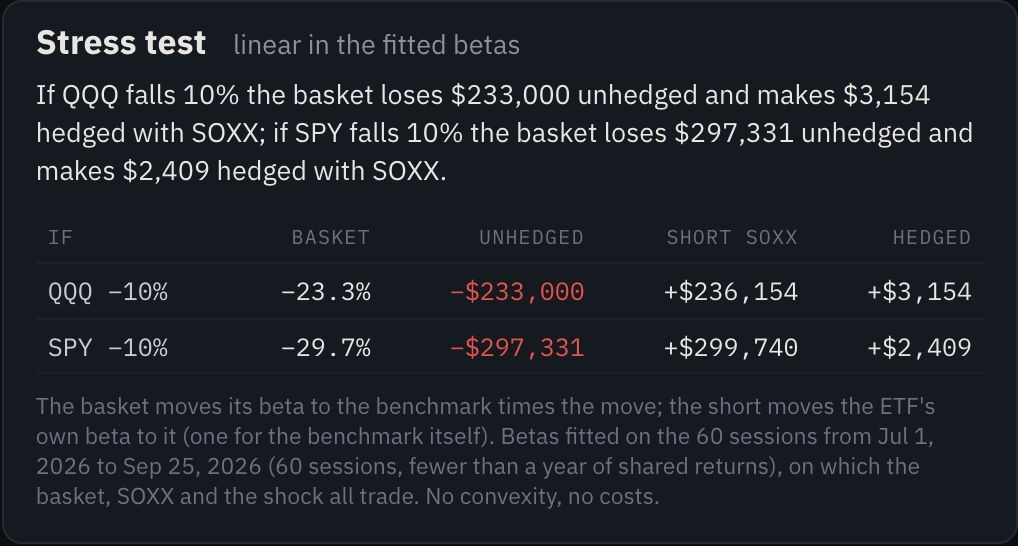
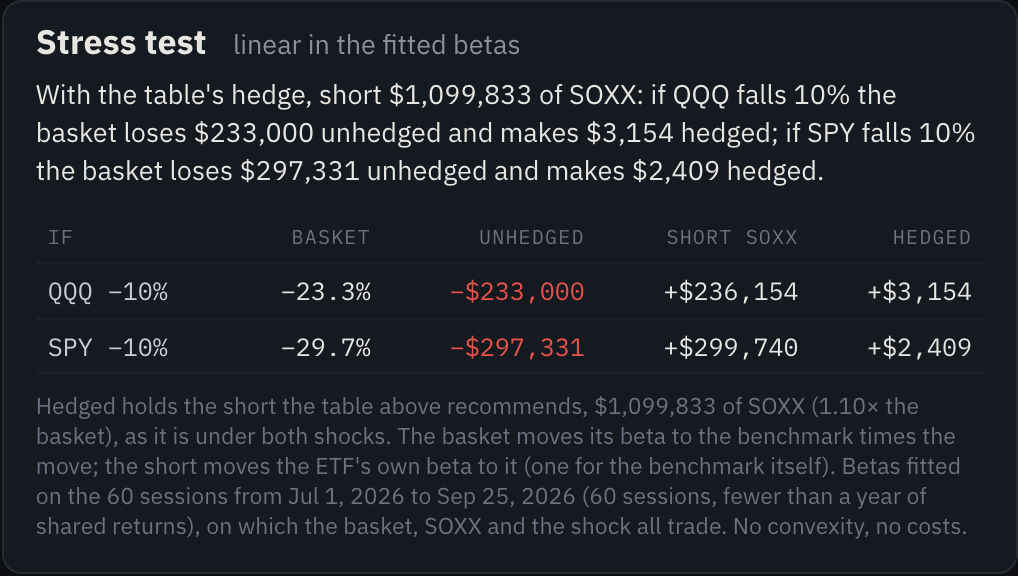
desk/books: the stress holds the short the ETF table recommends (Codex R-15)
The stress test refitted the hedge ratio on each shock's shared window, so
it could hedge with a position the table never recommended: in Codex's
repro (121 XNYS sessions, $1M basket) the table says short $1M of SMH, but
the QQQ row silently held $3M and reported about $0 hedged. `stress` now
takes the table's hedge ratio and holds that short as it is; only the
shock betas are fitted on the shared window ending at the basket's
cutoff (R-01 stands). Each stress row carries `short_usd`, and the card
names the short it holds in its lead and footnote.

Tests from the repro: tests/test_desk_basket.py::test_codex_r15_... (the
engine: −$200,000 hedged, was $0) and tests/test_desk_basket_api.py::
test_codex_r15_... (through hedge_answer); the web tests read the named
short. The fixtures' stress figures are unchanged (every fixture series
is complete, so the two windows agree); they gain `short_usd`. Spec §12.15,
Build Notes, the live stress shots and the compare shot follow.

diff --git a/web/src/screens/desk/basket/trades.test.ts b/web/src/screens/desk/basket/trades.test.ts
@@ -8,7 +8,7 @@ import { describe, expect, it } from "vitest";
 import basketPrice from "../../../fixtures/desk/basket-price.json";
 import basketHedge from "../../../fixtures/desk/basket-hedge.json";
 import type { BasketHedgeResponse, BasketPriceResponse } from "../data/types";
-import { asOfMismatch, stressWindowWords, excludedWords, hedgeLead, pnlWords, stressLead, compareLead, concentrationLead, contributionLead, daysText, indexLead, listWords, liquidityLead, momentumLead, rsLead, startSentence, startWhy, trendPhrase, upDown, usd } from "./trades";
+import { asOfMismatch, stressShortWords, stressWindowWords, excludedWords, hedgeLead, pnlWords, stressLead, compareLead, concentrationLead, contributionLead, daysText, indexLead, listWords, liquidityLead, momentumLead, rsLead, startSentence, startWhy, trendPhrase, upDown, usd } from "./trades";
 
 const ANSWERS = (basketPrice as unknown as { answers: Record<string, BasketPriceResponse> }).answers;
 const SAMPLE = ANSWERS["NVDA:22,AVGO:16,VRT:14,CRWV:12,ANET:12,CEG:12,SMCI:12|hold|1000000"];
@@ -70,13 +70,27 @@ describe("Basket & Hedge's lead sentences", () => {
   it("the hedge's sentences: the top pick with its fit, short and volatility; the stress, unhedged and hedged", () => {
     const h = HEDGES[PRESET];
     expect(hedgeLead(h)).toBe("SMH fits the basket best (R² 0.74 over a year): short $1,233,779 of it against $1,000,000 and the basket's volatility falls from 57% to 29%, 49% less.");
-    expect(stressLead(h)).toBe("If QQQ falls 10% the basket loses $223,092 unhedged and makes $222 hedged with SMH; if SPY falls 10% the basket loses $286,219 unhedged and makes $6,534 hedged with SMH.");
+    expect(stressLead(h)).toBe("With the table's hedge, short $1,233,779 of SMH: if QQQ falls 10% the basket loses $223,092 unhedged and makes $222 hedged; if SPY falls 10% the basket loses $286,219 unhedged and makes $6,534 hedged.");
     expect(pnlWords(-0.4)).toBe("is flat");
     expect(pnlWords(-1234.6)).toBe("loses $1,235");
     // A young basket is ranked on 60 sessions and says so.
     const young = { ...h, etfs: h.etfs!.map((e, i) => (i === 0 ? { ...e, basis: "60d" as const, r2_1y: null } : e)) };
     expect(hedgeLead(young)).toMatch(/^SMH fits the basket best \(R² 0\.77 over 60 sessions\)/);
     expect(hedgeLead({ ...h, top: null })).toBeNull();
+  });
+
+  it("Codex R-15: the stress card says which short it holds, the table's, and holds it as it is", () => {
+    const h = HEDGES[PRESET];
+    // Codex's repro as served: the table recommends $1M of SMH; QQQ's window gives the basket a beta of 3 and SMH 1.
+    const row = { ...h.stress![0], shock: "QQQ" as const, hedge: "SMH", hedge_ratio: 1, short_usd: 1_000_000, basket_beta: 3, basket_move: -0.3, unhedged_usd: -300_000, hedge_beta: 1, hedge_move: -0.1, hedge_usd: 100_000, hedged_usd: -200_000, hedged_move: -0.2 };
+    const r15 = { ...h, stress: [row, { ...row, shock: "SPY" as const }] };
+    expect(stressLead(r15)).toBe("With the table's hedge, short $1,000,000 of SMH: if QQQ falls 10% the basket loses $300,000 unhedged and loses $200,000 hedged; if SPY falls 10% the basket loses $300,000 unhedged and loses $200,000 hedged.");
+    expect(stressShortWords(r15)).toBe("Hedged holds the short the table above recommends, $1,000,000 of SMH (1.00× the basket), as it is under both shocks.");
+    expect(stressShortWords(h)).toBe("Hedged holds the short the table above recommends, $1,233,779 of SMH (1.23× the basket), as it is under both shocks.");
+    // No recommended short: the lead gives the unhedged figures alone and the footnote names no short.
+    const none = { ...h, stress: h.stress!.map((s) => ({ ...s, hedge: null, hedge_ratio: null, short_usd: null, hedge_usd: null, hedged_usd: null, hedged_move: null })) };
+    expect(stressLead(none)).toBe("If QQQ falls 10% the basket loses $223,092 unhedged; if SPY falls 10% the basket loses $286,219 unhedged.");
+    expect(stressShortWords(none)).toBeNull();
   });
 
   it("Codex R-07: closes left out for want of an adjusted close are said, by symbol", () => {

diff --git a/web/src/screens/desk/basket/trades.ts b/web/src/screens/desk/basket/trades.ts
@@ -202,16 +202,32 @@ export function hedgeLead(h: BasketHedgeResponse): string | null {
   return `${top.symbol} fits the basket best (R² ${num(r2, 2)} over ${over}): short ${usd(top.short_usd)} of it against ${usd(h.notional)} and the basket's volatility falls from ${pctPlain(top.basket_vol, 0)} to ${pctPlain(top.residual_vol, 0)}, ${pctPlain(top.vol_reduction, 0)} less.`;
 }
 
-/** The stress card's lead: each shock, unhedged and hedged with the top pick. */
+/** The short the stress holds (Codex R-15): the table's recommended position, the same on every row. */
+export function stressShort(h: BasketHedgeResponse): { symbol: string; short_usd: number; hedge_ratio: number | null } | null {
+  const s = (h.stress ?? []).find((r) => r.hedge && fin(r.short_usd));
+  return s ? { symbol: s.hedge as string, short_usd: s.short_usd as number, hedge_ratio: fin(s.hedge_ratio) ? s.hedge_ratio : null } : null;
+}
+
+/** The stress card's lead: the short it holds, then each shock unhedged and hedged. */
 export function stressLead(h: BasketHedgeResponse): string | null {
   const rows = (h.stress ?? []).filter((s) => fin(s.unhedged_usd) && fin(s.move));
   if (!rows.length) return null;
+  const short = stressShort(h);
+  const hedged = short !== null && rows.some((s) => fin(s.hedged_usd));
   const parts = rows.map((s) => {
     const head = `if ${s.shock} falls ${pctPlain(Math.abs(s.move as number), 0)} the basket ${pnlWords(s.unhedged_usd as number)} unhedged`;
-    return fin(s.hedged_usd) && s.hedge ? `${head} and ${pnlWords(s.hedged_usd)} hedged with ${s.hedge}` : head;
+    return hedged && fin(s.hedged_usd) ? `${head} and ${pnlWords(s.hedged_usd)} hedged` : head;
   });
   const s = parts.join("; ");
-  return `${s.charAt(0).toUpperCase()}${s.slice(1)}.`;
+  return hedged ? `With the table's hedge, short ${usd(short.short_usd)} of ${short.symbol}: ${s}.` : `${s.charAt(0).toUpperCase()}${s.slice(1)}.`;
+}
+
+/** The stress card's first footnote sentence: which short the hedged column holds, and that it is held as it is. */
+export function stressShortWords(h: BasketHedgeResponse): string | null {
+  const short = stressShort(h);
+  if (!short) return null;
+  const ratio = short.hedge_ratio !== null ? ` (${num(short.hedge_ratio, 2)}× the basket)` : "";
+  return `Hedged holds the short the table above recommends, ${usd(short.short_usd)} of ${short.symbol}${ratio}, as it is under both shocks.`;
 }
 
 // ── Step 1: the basket (§10) ──────────────────────────────────────────────

diff --git a/web/src/screens/desk/basket/BasketHedgeStep.tsx b/web/src/screens/desk/basket/BasketHedgeStep.tsx
@@ -6,15 +6,16 @@
  * (beta), the dollars to short for the notional, the volatility left after
  * the short and the cut; the top pick highlighted. The stress test is linear
  * in the fitted betas: the basket if QQQ or SPY falls 10%, unhedged and
- * hedged with the top pick. Then the slot for the options card, which is not
- * served here: it keeps its title and labels and prints its reason (§1.0.2).
+ * hedged with the short the table recommends for the top pick, held as it is
+ * (Codex R-15), and the card says which short that is. Then the slot for the
+ * options card, which is not served here: its title and its reason (§1.0.2).
  */
 
 import { useId, type ReactNode } from "react";
 import type { BasketHedgeResponse, HedgeEtf } from "../data/types";
 import { num, pct, pctPlain } from "../kit/format";
 import { Awaiting, NotServedBadge, UnservedLine, cx } from "../kit/ui";
-import { excludedWords, hedgeLead, stressLead, stressWindowWords, usd } from "./trades";
+import { excludedWords, hedgeLead, stressLead, stressShortWords, stressWindowWords, usd } from "./trades";
 
 type State = "loading" | "awaiting" | "ready";
 const fin = (x: unknown): x is number => typeof x === "number" && Number.isFinite(x);
@@ -133,7 +134,7 @@ function StressCard({ h, state }: { h: BasketHedgeResponse | undefined; state: S
       )}
       {state === "ready" && rows.length ? (
         <p className="bh-foot-note">
-          The basket moves its beta to the benchmark times the move; the short moves the ETF&apos;s own beta to it (one for the benchmark itself). {h ? stressWindowWords(h) : null}
+          {h ? stressShortWords(h) : null} The basket moves its beta to the benchmark times the move; the short moves the ETF&apos;s own beta to it (one for the benchmark itself). {h ? stressWindowWords(h) : null}
         </p>
       ) : null}
     </HedgeCard>

diff --git a/web/src/screens/desk/basket/BasketHedgePage.test.tsx b/web/src/screens/desk/basket/BasketHedgePage.test.tsx
@@ -94,7 +94,9 @@ describe("Basket & Hedge tab", () => {
     expect(rows[0]).toHaveAttribute("aria-current", "true");
     expect(rows[0]).toHaveTextContent("top pick");
     const stress = within(hedge).getByRole("region", { name: /^Stress test/ });
-    expect(stress).toHaveTextContent("If QQQ falls 10% the basket loses $170,542 unhedged and makes $5,810 hedged with XLK; if SPY falls 10% the basket loses $238,851 unhedged and makes $1,924 hedged with XLK.");
+    expect(stress).toHaveTextContent("With the table's hedge, short $1,384,473 of XLK: if QQQ falls 10% the basket loses $170,542 unhedged and makes $5,810 hedged; if SPY falls 10% the basket loses $238,851 unhedged and makes $1,924 hedged.");
+    // Codex R-15: the card names the short it holds, the table's top row's.
+    expect(stress).toHaveTextContent("Hedged holds the short the table above recommends, $1,384,473 of XLK (1.38× the basket), as it is under both shocks.");
     expect(calls).toContain("GET /api/desk/basket/hedge?legs=NVDA%3A22%2CAVGO%3A16%2CVRT%3A14%2CCRWV%3A12%2CANET%3A12%2CCEG%3A12%2CSMCI%3A12&method=hold&notional=1000000");
     // The options slot is plain (Codex R-14): its title, badge and why it is not served; no control that cannot act.
     const h = optionsCard();

diff --git a/web/e2e/desk.spec.ts b/web/e2e/desk.spec.ts
@@ -666,7 +666,7 @@ test.describe("desk v2", () => {
     // §12.15: the ETFs ranked, the top pick marked, the stress test.
     await expect(step3.getByRole("region", { name: /^Hedge with an ETF/ })).toContainText("XLK fits the basket best (R² 0.69 over a year)");
     await expect(step3.locator('tr[aria-current="true"]')).toHaveCount(1);
-    await expect(step3.getByRole("region", { name: /^Stress test/ })).toContainText("If QQQ falls 10% the basket loses $170,542 unhedged");
+    await expect(step3.getByRole("region", { name: /^Stress test/ })).toContainText("With the table's hedge, short $1,384,473 of XLK: if QQQ falls 10% the basket loses $170,542 unhedged");
     // §10 (Codex R-14): the options slot is plain: no control that cannot act, the reason printed.
     await expect(hedge.getByRole("button")).toHaveCount(0);
     await expect(hedge.locator('[data-slot="hedge-options"]')).toHaveCount(1);

diff --git a/web/src/screens/desk/data/types.ts b/web/src/screens/desk/data/types.ts
@@ -983,8 +983,10 @@ export interface StressRow {
   basket_move: number | null;
   unhedged_usd: number | null;
   hedge: string | null;
-  /** beta(basket, hedge ETF) on this row's window. */
+  /** The ETF table's hedge ratio for `hedge`, held as the table recommends it (Codex R-15). */
   hedge_ratio: number | null;
+  /** The dollars of `hedge` the stress assumes short: the table's `short_usd`. */
+  short_usd: number | null;
   hedge_beta: number | null;
   hedge_move: number | null;
   hedge_usd: number | null;

diff --git a/web/src/screens/desk/data/schema.ts b/web/src/screens/desk/data/schema.ts
@@ -704,6 +704,7 @@ export const SCHEMAS: Readonly<Record<string, Obj>> = {
         unhedged_usd: "n",
         hedge: "s?",
         hedge_ratio: "n",
+        short_usd: "n",
         hedge_beta: "n",
         hedge_move: "n",
         hedge_usd: "n",

diff --git a/tests/test_desk_basket.py b/tests/test_desk_basket.py
@@ -292,14 +292,49 @@ def test_codex_r01_the_stress_never_reads_etf_closes_after_the_basket():
     qqq = _levels(cal, q)
     smh = _levels(cal, np.concatenate([q[:60], 3 * q[60:]]))
     basket = _levels(cal[:61], q[:60])
-    rows = bk.stress(basket, {"QQQ": qqq}, "SMH", smh, "60d", 1_000_000.0, cal, cutoff=cal[60])
+    # The ETF ranking reads up to the same cutoff, and its hedge ratio is the one the stress holds (Codex R-15).
+    fit = bk.hedge_rows(basket, {"SMH": smh}, 1_000_000.0, cal, cutoff=cal[60])[0]
+    assert fit["beta_60d"] == pytest.approx(1.0) and fit["window_60d"]["end"] == cal[60]
+    rows = bk.stress(basket, {"QQQ": qqq}, "SMH", smh, "60d", 1_000_000.0, cal, cutoff=cal[60], hedge_ratio=fit["hedge_ratio"])
     r = rows[0]
     assert r["window"] == {"start": cal[0], "end": cal[60], "n": 60}
     assert r["basket_beta"] == pytest.approx(1.0) and r["hedge_beta"] == pytest.approx(1.0) and r["hedge_ratio"] == pytest.approx(1.0)
     assert r["unhedged_usd"] == pytest.approx(-100_000.0) and r["hedged_usd"] == pytest.approx(0.0, abs=1e-6)
-    # The ETF ranking reads up to the same cutoff.
-    fit = bk.hedge_rows(basket, {"SMH": smh}, 1_000_000.0, cal, cutoff=cal[60])[0]
-    assert fit["beta_60d"] == pytest.approx(1.0) and fit["window_60d"]["end"] == cal[60]
+
+
+# ── Codex R-15: the stress holds the short the table recommends ──
+
+def r15_case():
+    """Codex's R-15 repro: 121 XNYS sessions; SMH's returns alternate −1% / +1%; the basket moves three times SMH
+    for its first 60 returns and with SMH for the last 60; QQQ has only the first 61 prices, identical to SMH's."""
+    cal = _xnys("2025-01-02", "2025-12-31")[:121]
+    smh_r = np.array([-0.01 if i % 2 == 0 else 0.01 for i in range(120)])
+    smh = _levels(cal, smh_r)
+    basket = _levels(cal, np.concatenate([3 * smh_r[:60], smh_r[60:]]))
+    qqq = dict(list(smh.items())[:61])
+    return cal, basket, smh, qqq
+
+
+def test_codex_r15_the_stress_holds_the_short_the_table_recommends():
+    """The table fits the last 60 returns (beta 1) and recommends shorting $1M of SMH. QQQ's window is the first
+    60 returns, the only ones it has: the basket's beta to QQQ is 3 and SMH's is 1, so the $1M short leaves
+    −$200,000 hedged. Refitting the hedge on that window (beta 3, a $3M short) reported about $0."""
+    cal, basket, smh, qqq = r15_case()
+    top = bk.hedge_rows(basket, {"SMH": smh}, 1_000_000.0, cal, cutoff=cal[-1])[0]
+    assert top["basis"] == "60d" and top["hedge_ratio"] == pytest.approx(1.0) and top["short_usd"] == pytest.approx(1_000_000.0)
+    r = bk.stress(basket, {"QQQ": qqq}, "SMH", smh, top["basis"], 1_000_000.0, cal, cutoff=cal[-1],
+                  hedge_ratio=top["hedge_ratio"])[0]
+    assert r["window"] == {"start": cal[0], "end": cal[60], "n": 60}
+    assert r["basket_beta"] == pytest.approx(3.0) and r["hedge_beta"] == pytest.approx(1.0)
+    assert r["hedge_ratio"] == pytest.approx(1.0) and r["short_usd"] == pytest.approx(1_000_000.0)
+    assert r["unhedged_usd"] == pytest.approx(-300_000.0) and r["hedge_usd"] == pytest.approx(100_000.0)
+    assert r["hedged_usd"] == pytest.approx(-200_000.0) and r["hedged_move"] == pytest.approx(-0.2)
+
+
+def test_the_stress_without_a_recommended_short_says_so():
+    cal, basket, smh, qqq = r15_case()
+    r = bk.stress(basket, {"QQQ": qqq}, "SMH", smh, "60d", 1e6, cal, cutoff=cal[-1], hedge_ratio=None)[0]
+    assert r["short_usd"] is None and r["hedged_usd"] is None and r["reason"] == "no ETF fits the basket over a complete window"
 
 
 def test_the_stress_says_why_when_the_three_share_too_few_returns():
@@ -307,6 +342,6 @@ def test_the_stress_says_why_when_the_three_share_too_few_returns():
     q = np.full(60, 0.001)
     lv = _levels(cal, q)
     gapped = {d: v for i, (d, v) in enumerate(lv.items()) if i != 30}
-    r = bk.stress(lv, {"SPY": gapped}, "SMH", lv, "60d", 1e6, cal, cutoff=cal[-1])[0]
+    r = bk.stress(lv, {"SPY": gapped}, "SMH", lv, "60d", 1e6, cal, cutoff=cal[-1], hedge_ratio=1.0)[0]
     assert r["unhedged_usd"] is None and r["window"]["n"] == 58
     assert r["reason"] == "needs 60 daily returns the basket, SMH and SPY all have; there are 58"

diff --git a/src/desk/basket.py b/src/desk/basket.py
@@ -475,26 +475,30 @@ def _beta(y: np.ndarray, x: np.ndarray) -> float | None:
 
 def stress(basket: Mapping[str, float], shocks: Mapping[str, Mapping[str, float]], top: str | None,
            top_levels: Mapping[str, float] | None, basis: str | None, notional: float, sessions: Sequence[str],
-           cutoff: str, move: float = STRESS_MOVE) -> list[dict]:
-    """The basket's P&L if a benchmark moves `move` (−10%), linear in betas all
-    fitted on one shared window (Codex R-01): the last n sessions (n from
-    `basis`, 252 or 60) up to the basket's `cutoff` on which the basket, the
-    top ETF and the benchmark each have a one-session return. On that window:
-    beta(basket, benchmark), beta(ETF, benchmark) (1 when the ETF is the
-    benchmark) and the hedge ratio beta(basket, ETF). Unhedged, notional ×
-    beta(basket, benchmark) × move; the short, hedge ratio × notional of the
-    ETF, which moves beta(ETF, benchmark) × move; hedged, the two added."""
+           cutoff: str, move: float = STRESS_MOVE, *, hedge_ratio: float | None) -> list[dict]:
+    """The basket's P&L if a benchmark moves `move` (−10%), hedged with the
+    position the ETF table recommends: `hedge_ratio` (the top row's, dollars of
+    ETF short per dollar of basket), so a short of hedge ratio × notional of
+    `top`, held as it is (Codex R-15: never refitted per benchmark). The shock
+    betas are fitted on one shared window (Codex R-01): the last n sessions (n
+    from `basis`, 252 or 60) up to the basket's `cutoff` on which the basket,
+    the top ETF and the benchmark each have a one-session return. On that
+    window: beta(basket, benchmark) and beta(ETF, benchmark) (1 when the ETF is
+    the benchmark). Unhedged, notional × beta(basket, benchmark) × move; the
+    short, which moves beta(ETF, benchmark) × move against it; hedged, the two
+    added."""
     n = WINDOWS.get(basis or "", None)
     cal = list(sessions)
     within = np.array([d <= cutoff for d in cal])
     rb = session_returns(on_calendar(basket, cal))
     re = session_returns(on_calendar(top_levels, cal)) if top_levels is not None else None
+    held = hedge_ratio if hedge_ratio is not None and math.isfinite(hedge_ratio) else None
     out = []
     for sym, levels in shocks.items():
         row = {"shock": sym, "move": move, "window": None, "reason": None, "basket_beta": None, "basket_move": None,
-               "unhedged_usd": None, "hedge": top, "hedge_ratio": None, "hedge_beta": None, "hedge_move": None,
-               "hedge_usd": None, "hedged_usd": None, "hedged_move": None}
-        if n is None or top is None or re is None:
+               "unhedged_usd": None, "hedge": top, "hedge_ratio": held, "short_usd": None if held is None else held * notional,
+               "hedge_beta": None, "hedge_move": None, "hedge_usd": None, "hedged_usd": None, "hedged_move": None}
+        if n is None or top is None or re is None or held is None:
             row["reason"] = "no ETF fits the basket over a complete window"
             out.append(row)
             continue
@@ -510,16 +514,14 @@ def stress(basket: Mapping[str, float], shocks: Mapping[str, Mapping[str, float]
         row["window"] = {"start": cal[int(use[0]) - 1], "end": cal[int(use[-1])], "n": n}
         bb = _beta(rb[use], rs[use])
         be = 1.0 if top == sym else _beta(re[use], rs[use])
-        ratio = _beta(rb[use], re[use])
         if bb is not None:
             row["basket_beta"] = bb
             row["basket_move"] = bb * move
             row["unhedged_usd"] = notional * bb * move
-            if be is not None and ratio is not None:
-                row["hedge_ratio"] = ratio
+            if be is not None:
                 row["hedge_beta"] = be
                 row["hedge_move"] = be * move
-                row["hedge_usd"] = -ratio * notional * be * move
+                row["hedge_usd"] = -row["short_usd"] * be * move
                 row["hedged_usd"] = row["unhedged_usd"] + row["hedge_usd"]
                 row["hedged_move"] = row["hedged_usd"] / notional
         out.append(row)

diff --git a/tests/test_desk_basket_api.py b/tests/test_desk_basket_api.py
@@ -225,16 +225,47 @@ def test_the_stress_is_linear_in_betas_fitted_on_one_shared_window(served):
     ref = bk.price_basket({s: h[s] for s in ("NVDA", "AVGO")}, {"NVDA": 0.5, "AVGO": 0.5}, sessions=cal)
     level = dict(zip(ref["dates"], ref["index"]))
     top_lv = dict(zip(h[d["top"]].dates, h[d["top"]].close))
+    top = d["etfs"][0]
     for s in d["stress"]:
         assert s["window"]["end"] == ref["end"] and s["window"]["n"] == 252
         bench = dict(zip(h[s["shock"]].dates, h[s["shock"]].close))
         bb = bk.regression(level, bench, 252, cal, ref["end"])["beta"]
         be = 1.0 if s["shock"] == d["top"] else bk.regression(top_lv, bench, 252, cal, ref["end"])["beta"]
-        ratio = bk.regression(level, top_lv, 252, cal, ref["end"])["beta"]
-        assert s["hedge_ratio"] == pytest.approx(ratio)
+        # The short is the table's, as it recommends it (Codex R-15).
+        ratio = top["hedge_ratio"]
+        assert s["hedge_ratio"] == ratio and s["short_usd"] == top["short_usd"]
         assert s["unhedged_usd"] == pytest.approx(1e6 * bb * -0.1)
         assert s["hedged_usd"] == pytest.approx(1e6 * (bb - ratio * be) * -0.1)
         assert s["hedged_move"] == pytest.approx(s["hedged_usd"] / 1e6)
+
+
+def test_codex_r15_the_answer_stresses_the_short_its_table_recommends():
+    """Codex's R-15 repro through the answer itself: the basket moves three times SMH for its first 60 returns
+    and with it for the last 60, QQQ has only the first 61 prices; the table recommends shorting $1M of SMH, and
+    the QQQ stress holds that $1M short: −$200,000 hedged, not the refitted hedge's $0."""
+    from src.desk import basket as bk
+
+    cal = SESSIONS[-121:]
+    smh_r = np.array([-0.01 if i % 2 == 0 else 0.01 for i in range(120)])
+
+    def lv(rets):
+        return list(100.0 * np.cumprod(np.concatenate([[1.0], 1 + np.asarray(rets)])))
+
+    def hist(closes, n=None):
+        n = len(closes) if n is None else n
+        return bk.History(tuple(cal[:n]), tuple(float(c) for c in closes[:n]), tuple([1e9] * n))
+
+    rng = np.random.default_rng(15)
+    histories = {"BSK": hist(lv(np.concatenate([3 * smh_r[:60], smh_r[60:]]))), "SMH": hist(lv(smh_r)), "QQQ": hist(lv(smh_r), 61)}
+    for sym in ("SOXX", "XLK", "IGV", "XLU", "SPY", "IWM"):
+        histories[sym] = hist(lv(rng.normal(0, 0.01, 120)))
+    d = desk_basket.hedge_answer(histories, [("BSK", 100.0)], "hold", 1_000_000.0)
+    top = d["etfs"][0]
+    assert d["top"] == "SMH" and top["basis"] == "60d" and top["short_usd"] == pytest.approx(1_000_000.0)
+    q = next(s for s in d["stress"] if s["shock"] == "QQQ")
+    assert q["window"] == {"start": cal[0], "end": cal[60], "n": 60}
+    assert q["short_usd"] == top["short_usd"] and q["hedge_ratio"] == top["hedge_ratio"]
+    assert q["unhedged_usd"] == pytest.approx(-300_000.0) and q["hedged_usd"] == pytest.approx(-200_000.0)
 
 
 def test_a_young_basket_is_ranked_on_sixty_days_and_says_so(served):

diff --git a/api/desk_basket.py b/api/desk_basket.py
@@ -285,8 +285,10 @@ def hedge_answer(histories: Mapping[str, Any], legs: list[tuple[str, float]], me
         "excluded": excluded(histories, [s for s, _ in legs] + [s for s in HEDGE_ETFS if s not in {x for x, _ in legs}]),
         "etfs": rows,
         "top": top["symbol"] if top else None,
+        # The stress holds the table's recommended short as it is (Codex R-15).
         "stress": bk.stress(level, shocks, top["symbol"] if top else None, etf_levels[top["symbol"]] if top else None,
-                            top["basis"] if top else None, notional, sessions, cutoff),
+                            top["basis"] if top else None, notional, sessions, cutoff,
+                            hedge_ratio=top["hedge_ratio"] if top else None),
     }
 
 

diff --git a/tests/desk_contract.py b/tests/desk_contract.py
@@ -464,8 +464,8 @@ BASKET_HEDGE = obj(
     stress=Arr(obj(
         shock=E("QQQ", "SPY"), move=Const(-0.1), window=null(LOOSE_SPAN), reason=null(STR),
         basket_beta=null(NUM), basket_move=null(NUM), unhedged_usd=null(NUM),
-        hedge=null(HEDGE_ETF), hedge_ratio=null(NUM), hedge_beta=null(NUM), hedge_move=null(NUM), hedge_usd=null(NUM),
-        hedged_usd=null(NUM), hedged_move=null(NUM),
+        hedge=null(HEDGE_ETF), hedge_ratio=null(NUM), short_usd=null(NUM), hedge_beta=null(NUM), hedge_move=null(NUM),
+        hedge_usd=null(NUM), hedged_usd=null(NUM), hedged_move=null(NUM),
     ), min=2, max=2),
 )
 
